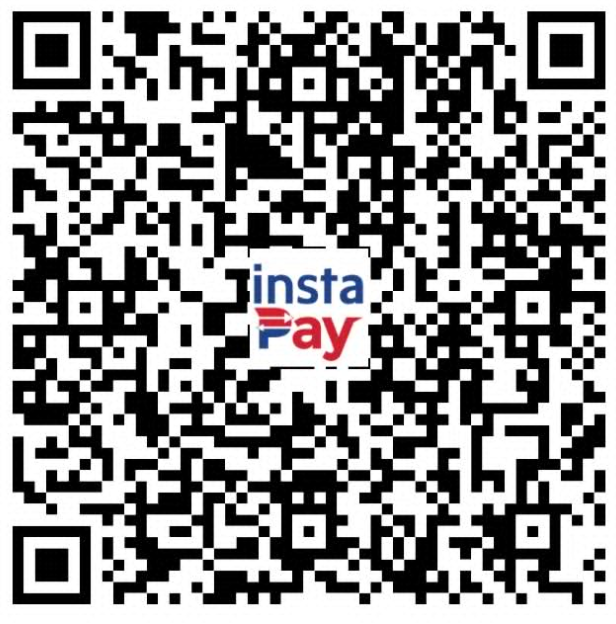
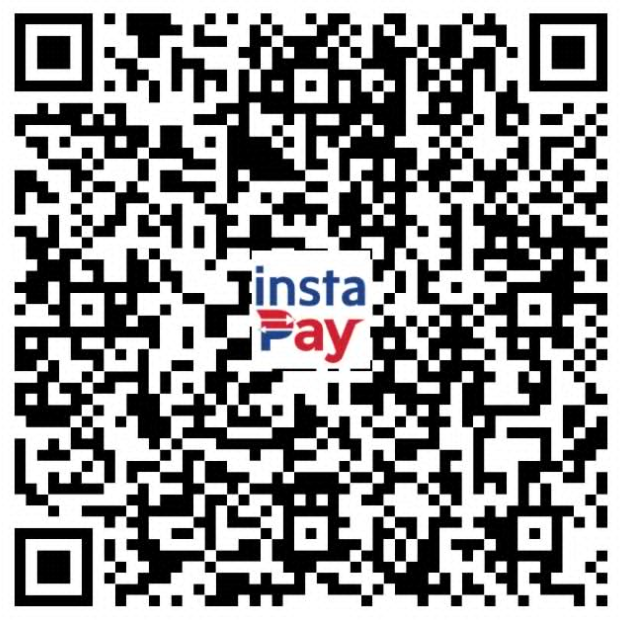
hide maya in agri

diff --git a/src/pages/PreRegister.tsx b/src/pages/PreRegister.tsx
@@ -343,7 +343,7 @@ const PreRegister = () => {
     }
   }, [examType, walletType, setValue]);
 
-  // Agriculture (AgLE) supports GCash / Maya / BPI / UnionBank InstaPay QRs and
+  // Agriculture (AgLE) supports GCash / BPI / UnionBank InstaPay QRs and
   // has no Latin Honor discount.
   useEffect(() => {
     if (examType === "agri") {
@@ -352,7 +352,6 @@ const PreRegister = () => {
       }
       if (
         walletType !== "gcash" &&
-        walletType !== "maya" &&
         walletType !== "bpi" &&
         walletType !== "unionbank"
       ) {
@@ -1830,7 +1829,6 @@ const PreRegister = () => {
                                           wallet.id === "maribank"
                                         : examType === "agri"
                                           ? wallet.id === "gcash" ||
-                                            wallet.id === "maya" ||
                                             wallet.id === "bpi" ||
                                             wallet.id === "unionbank"
                                           : true
